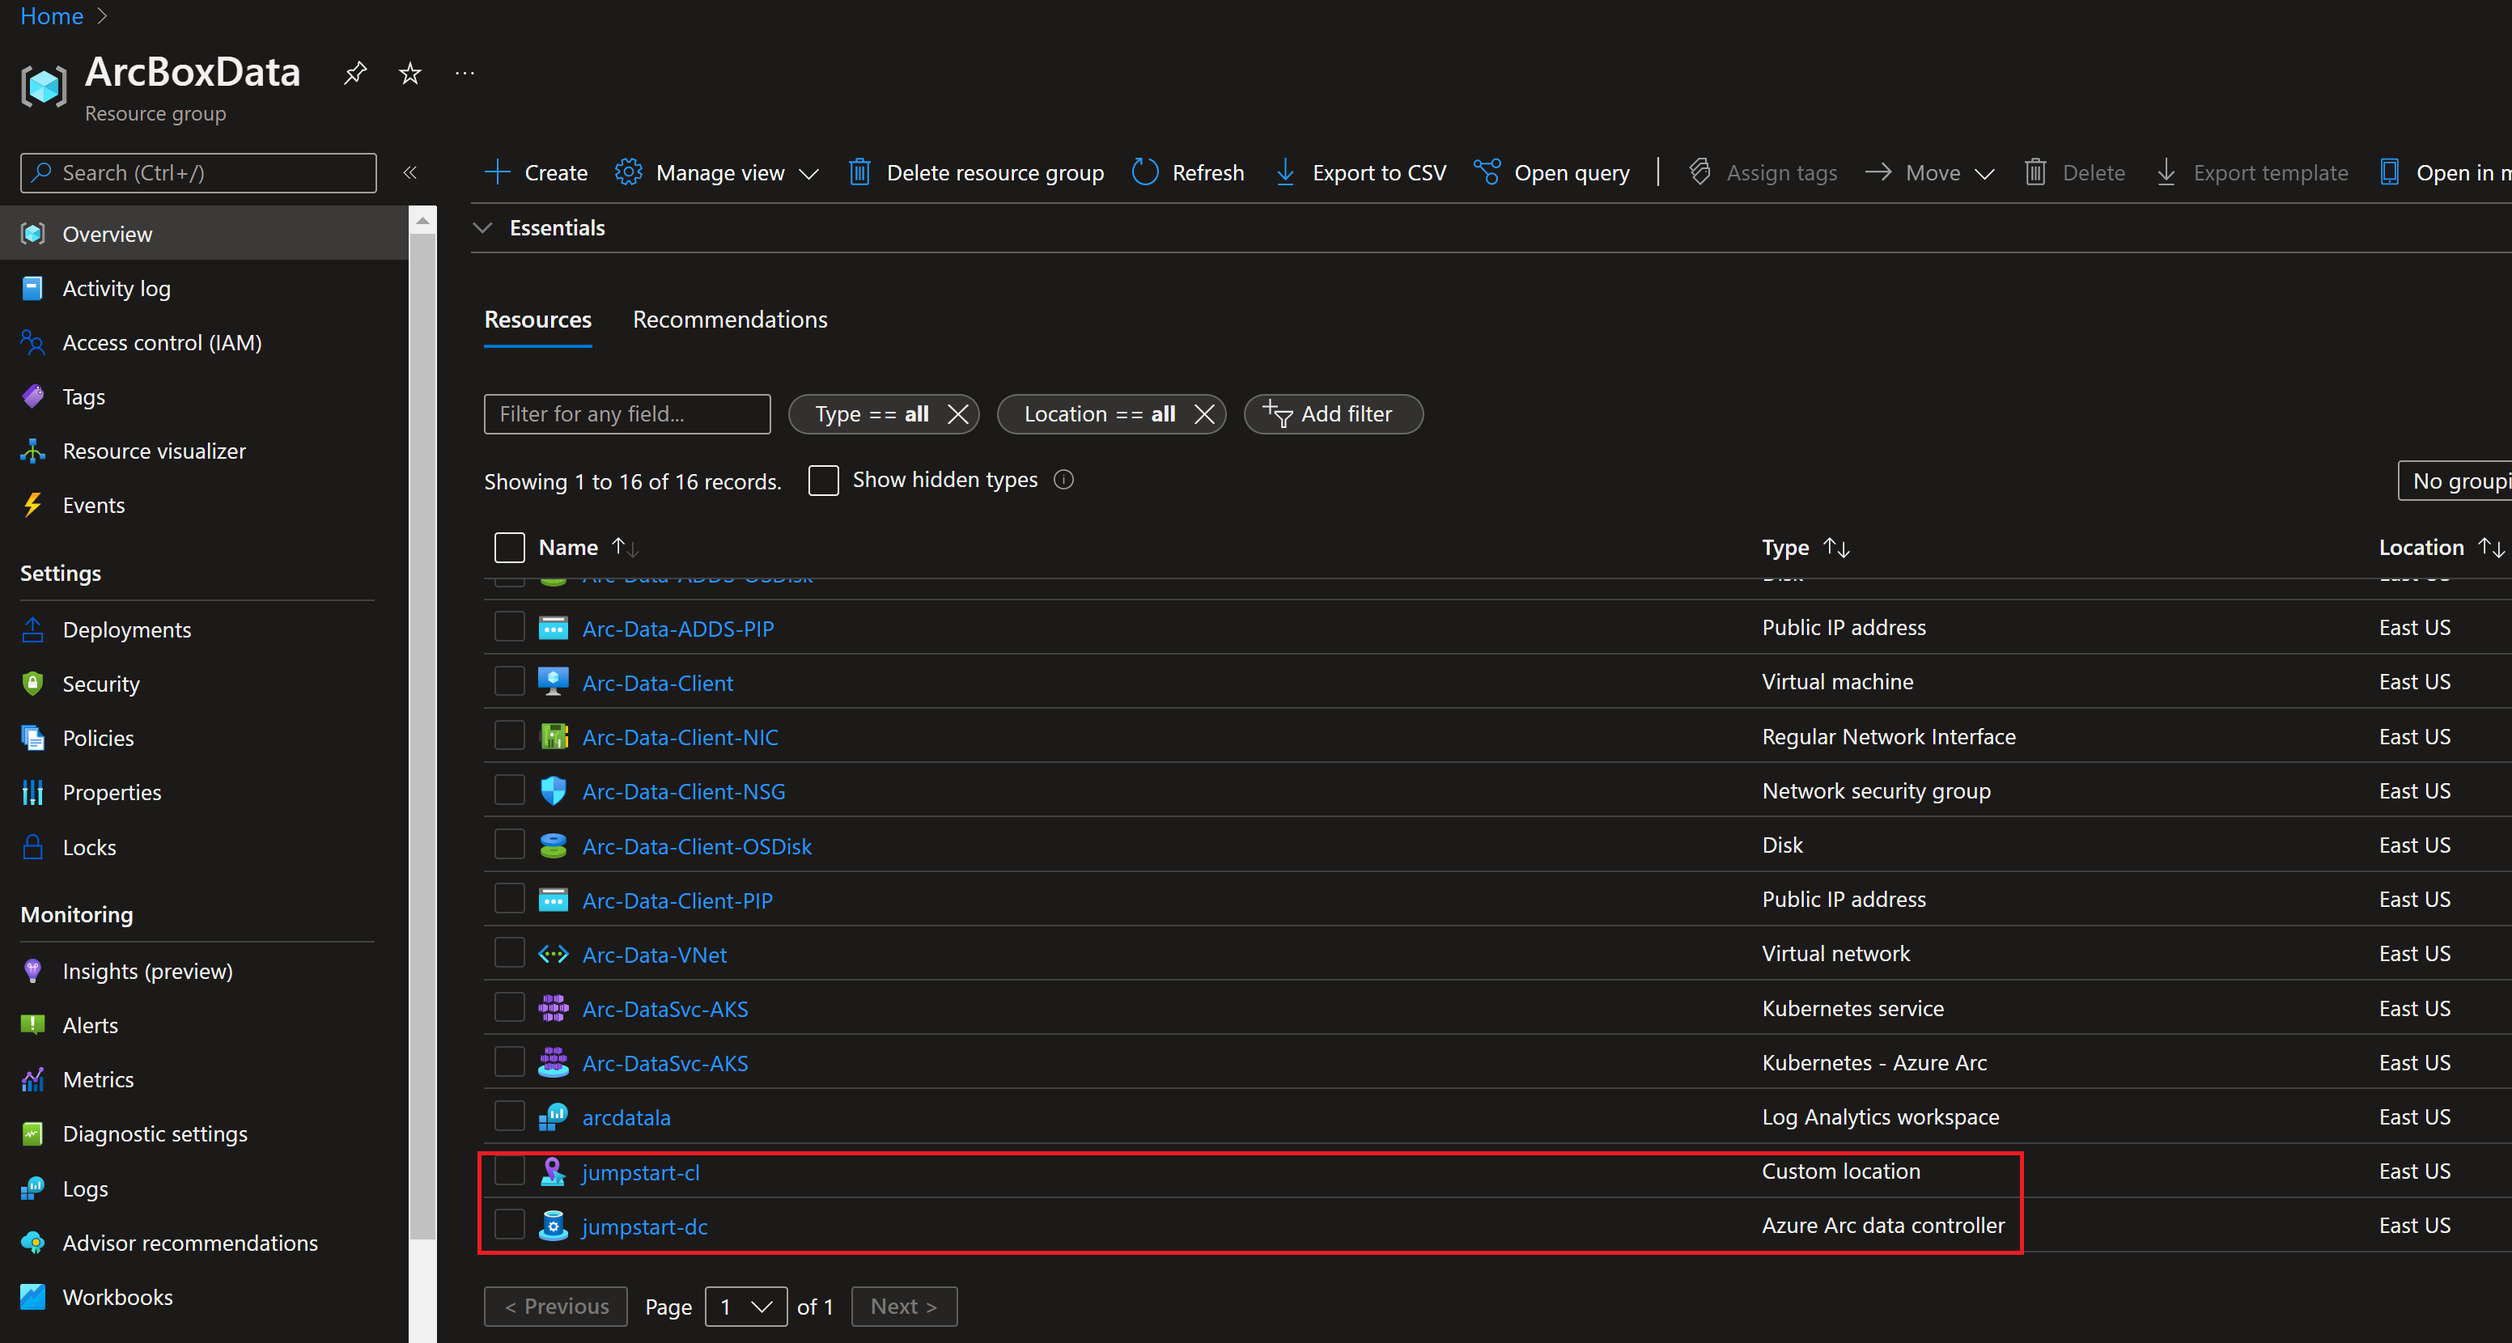
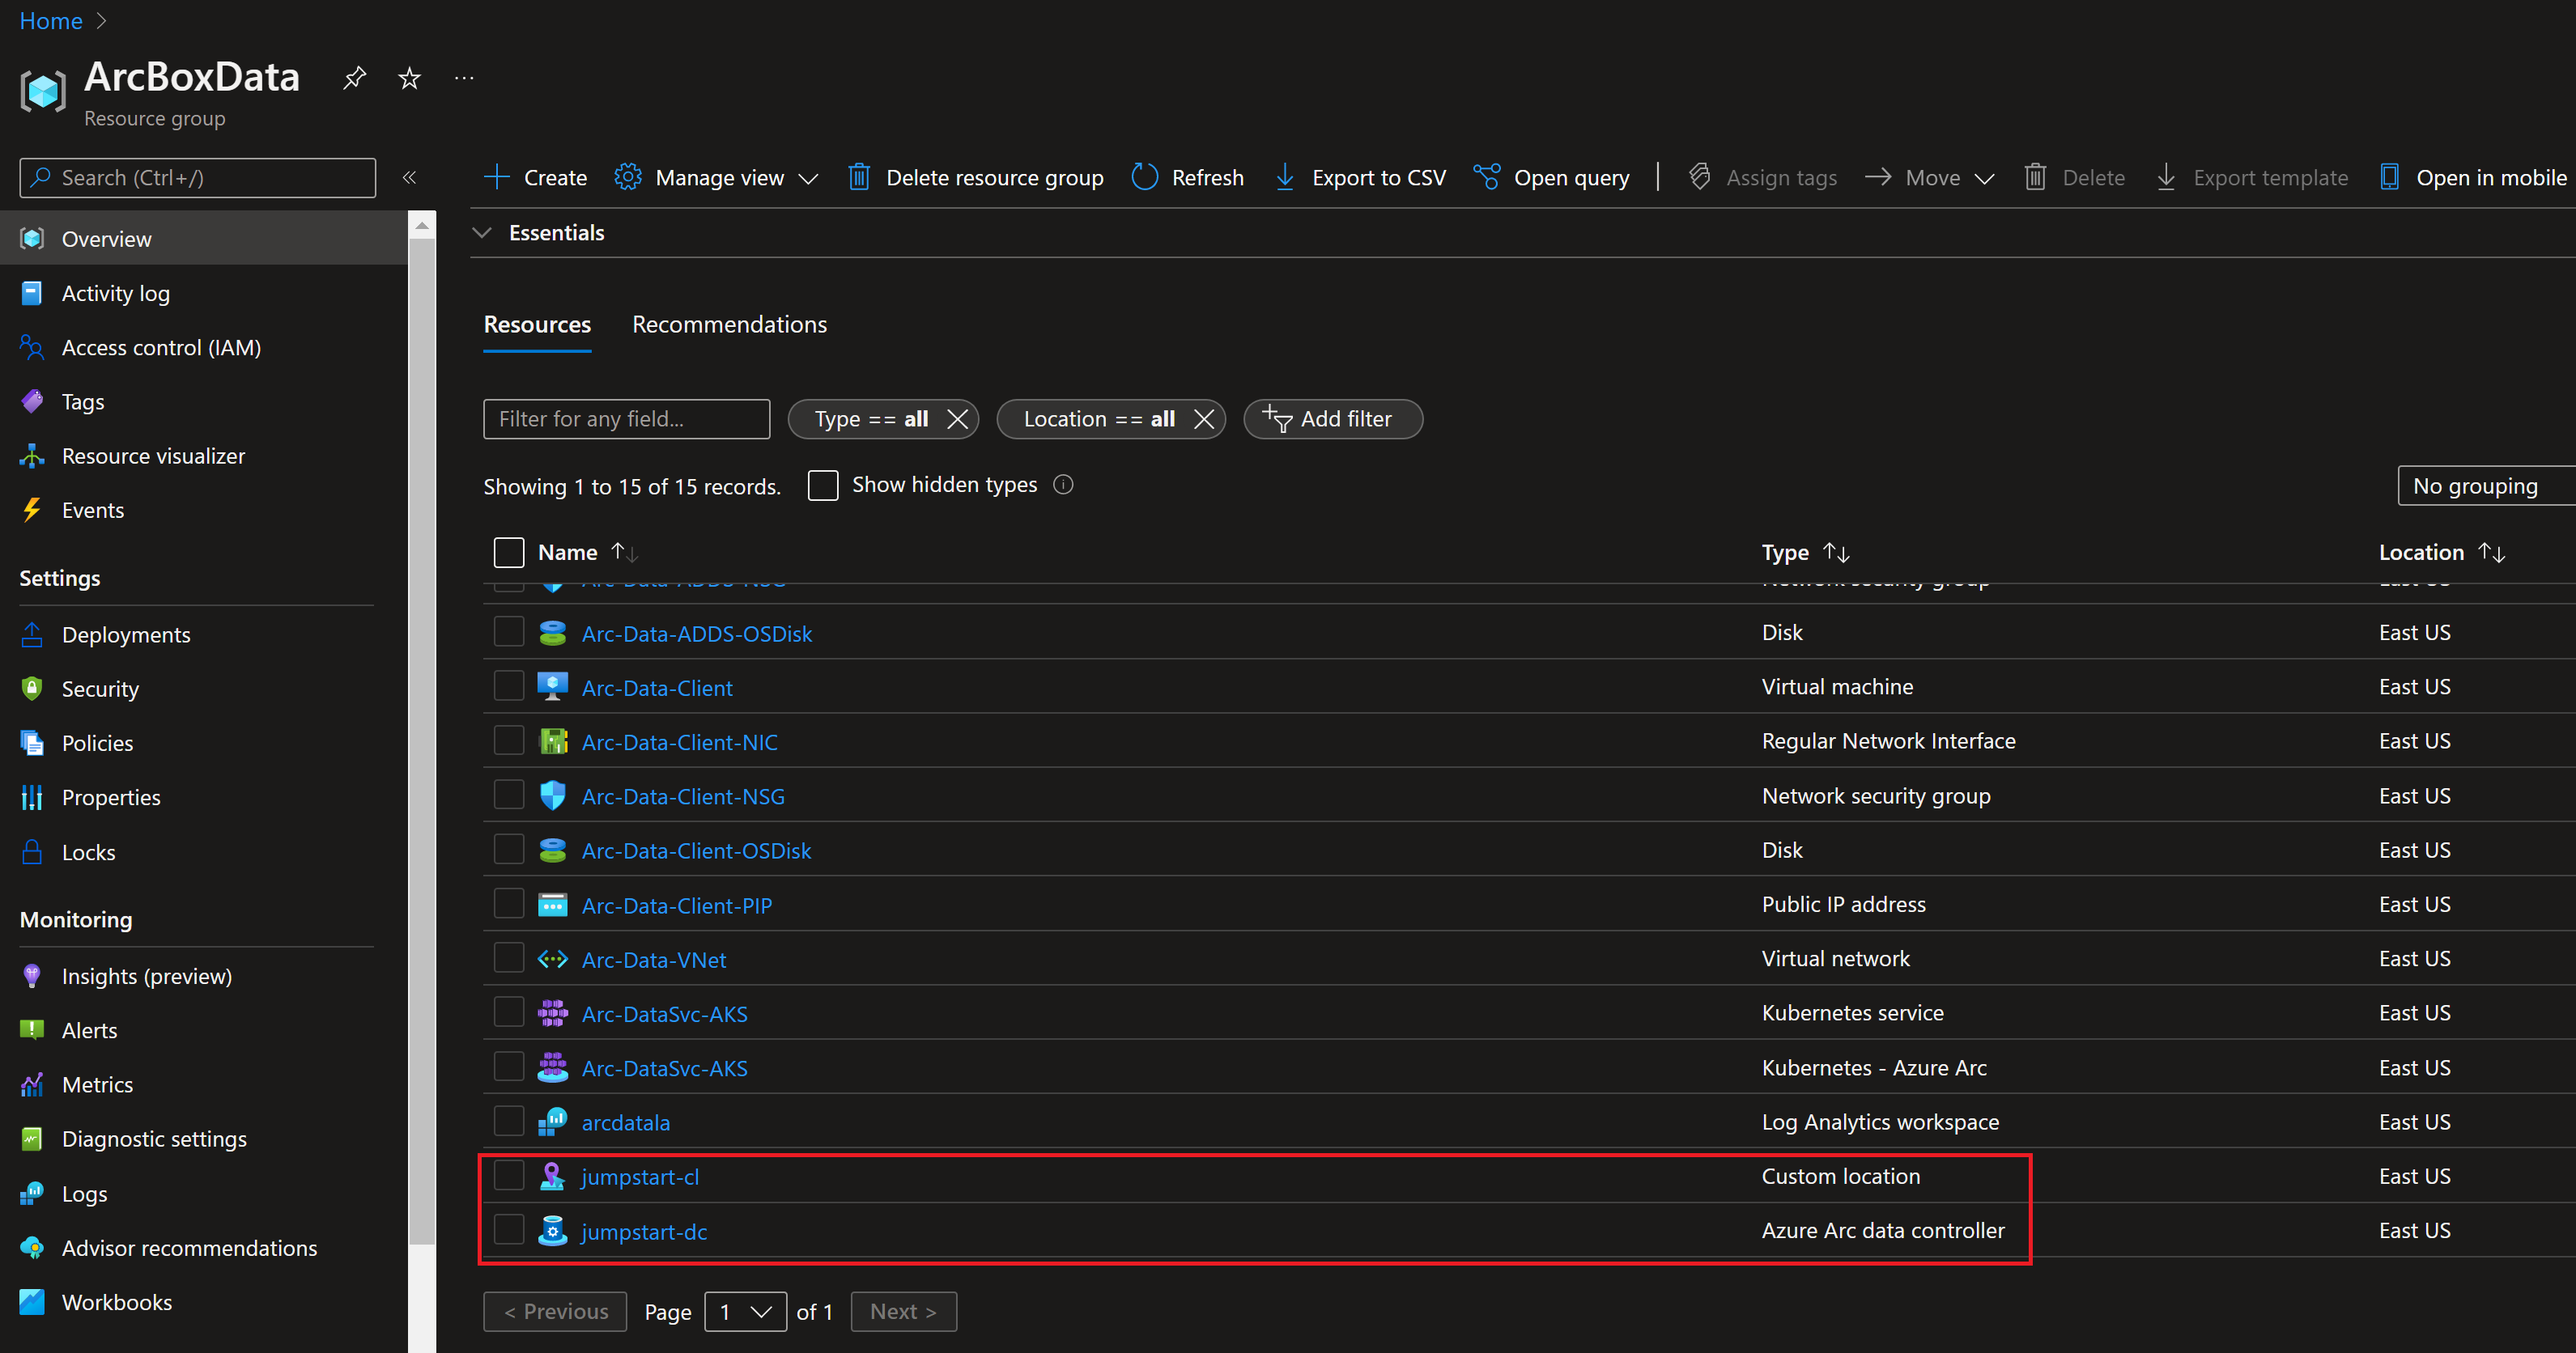
Updated as per PR review feedback

diff --git a/docs/azure_arc_jumpstart/azure_arc_data/aks/aks_mssql_mi_ad_auth_arm_template/_index.md b/docs/azure_arc_jumpstart/azure_arc_data/aks/aks_mssql_mi_ad_auth_arm_template/_index.md
@@ -6,11 +6,11 @@ weight: 2
 description: >
 ---
 
-## Deploy Azure SQL Managed Instance with AD authentication support in directly connected mode on AKS using an ARM Template
+## Deploy Azure SQL Managed Instance with AD authentication support using Customer-managed keytab in directly connected mode on AKS using an ARM Template
 
 The following Jumpstart scenario will guide you on how to deploy a "Ready to Go" environment so you can start using [Azure Arc-enabled data services](https://docs.microsoft.com/azure/azure-arc/data/overview) and [SQL Managed Instance](https://docs.microsoft.com/azure/azure-arc/data/managed-instance-overview) with [Active Directory Authentication](https://docs.microsoft.com/en-us/azure/azure-arc/data/active-directory-introduction) support to access control SQL Managed Instance. This scenario is deployed on [Azure Kubernetes Service (AKS)](https://docs.microsoft.com/azure/aks/intro-kubernetes) cluster using [Azure ARM Template](https://docs.microsoft.com/azure/azure-resource-manager/templates/overview). This scenarios uses [Customer-managed keytab (CMK)](https://docs.microsoft.com/en-us/azure/azure-arc/data/deploy-customer-managed-keytab-active-directory-connector) to support [Active Directory authentication in Arc-enabled SQL Managed Instance](https://docs.microsoft.com/en-us/azure/azure-arc/data/deploy-active-directory-sql-managed-instance?tabs=customer-managed-keytab-mode).
 
-By the end of this guide, you will have an AKS cluster deployed with an Azure Arc Data Controller, SQL Managed Instance, Microsoft Windows Server 2022 (Datacenter) Azure VM with Active Directory Domain Services and DNS server installed, and a Microsoft Windows Server 2022 (Datacenter) Azure client VM, installed & pre-configured with all the required tools needed to work with Azure Arc-enabled data services:
+By the end of this scenario, you will have an AKS cluster deployed with an Azure Arc Data Controller, SQL Managed Instance, Microsoft Windows Server 2022 (Datacenter) Azure VM with Active Directory Domain Services and DNS server installed, and a Microsoft Windows Server 2022 (Datacenter) Azure client VM, installed & pre-configured with all the required tools needed to work with Azure Arc-enabled data services:
 
 ![Screenshot showing the deployed architecture](./deployment-architecture.png)
 
@@ -22,7 +22,7 @@ By the end of this guide, you will have an AKS cluster deployed with an Azure Ar
     git clone https://github.com/microsoft/azure_arc.git
     ```
 
-- [Install or update Azure CLI to version 2.25.0 and above](https://docs.microsoft.com/cli/azure/install-azure-cli?view=azure-cli-latest). Use the below command to check your current installed version.
+- [Install or update Azure CLI to version 2.36.0 and above](https://docs.microsoft.com/cli/azure/install-azure-cli?view=azure-cli-latest). Use the below command to check your current installed version.
 
   ```shell
   az --version
@@ -84,11 +84,11 @@ For you to get familiar with the automation and deployment flow, below is an exp
 
   - [_VNET_](https://github.com/microsoft/azure_arc/blob/main/azure_arc_data_jumpstart/aks/ARM/VNET.json) - Deploys a Virtual Network with two subnets, one to be used by the Client virtual machine and Active Directory Domain Services VM, and the other to be used by AKS cluster. Assigns DNS servers in the VNet when Active Directory authentication support is enabled in SQL Managed Instance.
   - [_aks_](https://github.com/microsoft/azure_arc/blob/main/azure_arc_data_jumpstart/aks/ARM/aks.json) - Deploys the AKS cluster where all the Azure Arc data services will be deployed.
-  - [_addsVm_](https://github.com/microsoft/azure_arc/blob/main/azure_arc_data_jumpstart/aks/ARM/addsVm.json) - Deploys the Active Directory Domain Services Windows VM. This is where all user accounts are created to access SQL Managed Instance using Active Directory  authentication, service account to assign Service Principal and generate keytab file, and DNS entries for domain controller and SQL Managed Instance name resolution for connectivity.
+  - [_addsVm_](https://github.com/microsoft/azure_arc/blob/main/azure_arc_data_jumpstart/aks/ARM/addsVm.json) - Deploys the Active Directory Domain Services Windows VM. This is where all user accounts are created to access SQL Managed Instance using Active Directory  authentication, service account to assign service principal and generate keytab file, and DNS entries for domain controller and SQL Managed Instance name resolution for connectivity.
   - [_clientVm_](https://github.com/microsoft/azure_arc/blob/main/azure_arc_data_jumpstart/aks/ARM/clientVm.json) - Deploys the client Windows VM. This is where all user interactions with the environment are made from.
   - [_logAnalytics_](https://github.com/microsoft/azure_arc/blob/main/azure_arc_data_jumpstart/aks/ARM/logAnalytics.json) - Deploys Azure Log Analytics workspace to support Azure Arc-enabled data services logs uploads.
 
-  - User remotes into Active Directory domain joined client Windows VM using Active Directory account, which automatically kicks off the [_DataServicesLogonScript_](https://github.com/microsoft/azure_arc/blob/main/azure_arc_data_jumpstart/aks/ARM/artifacts/DataServicesLogonScript.ps1) PowerShell script that deploy and configure Azure Arc-enabled data services on the AKS cluster including the reverse DNS setup, PTR record for domain controller, data controller, SQLMI organization unit (OU), domain user account and keytab file, Active Directory Connector(ADC), and SQL Managed Instance.
+  - User remotes into the Active Directory domain joined client Windows VM using Active Directory account, which automatically kicks off the [_DataServicesLogonScript_](https://github.com/microsoft/azure_arc/blob/main/azure_arc_data_jumpstart/aks/ARM/artifacts/DataServicesLogonScript.ps1) PowerShell script that deploy and configure Azure Arc-enabled data services on the AKS cluster including the reverse DNS setup, PTR record for domain controller, data controller, SQLMI organization unit (OU), domain user account and keytab file, Active Directory Connector(ADC), and SQL Managed Instance.
 
   - In addition to deploying the data controller and SQL Managed Instance, the sample [_AdventureWorks_](https://docs.microsoft.com/sql/samples/adventureworks-install-configure?view=sql-server-ver15&tabs=ssms) database is restored, windows account is created in SQL Managed Instance, and sysadmin role is automatically assigned for you as well to connect to database server using Windows Integrated authentication using SQL Server Management Studio(SSMS) or Azure Data Studio.
 
@@ -139,9 +139,9 @@ As mentioned, this deployment will leverage ARM templates. You will deploy a sin
     --parameters azuredeploy.parameters.json
     ```
 
-    > **NOTE: The deployment time for this scenario can take ~15-20min**
+    > **NOTE: The deployment time for this scenario can take ~20-25min**
 
-- Once Azure resources have been provisioned, you will be able to see them in the Azure portal. At this point, the resource group should have **13 various Azure resources** deployed (If you chose to deploy Azure Bastion, you will have **14 Azure resources**).
+- Once Azure resources have been provisioned, you will be able to see them in the Azure portal. At this point, the resource group should have **12 various Azure resources** deployed (If you chose to deploy Azure Bastion, you will have **13 Azure resources**).
 
     ![Screenshot showing ARM template deployment completed](./01.png)
 
@@ -153,11 +153,13 @@ As mentioned, this deployment will leverage ARM templates. You will deploy a sin
 
     ![Screenshot showing the Client VM public IP](./03.png)
 
-- If you have chosen to deploy Azure Bastion in the ARM template, use it to connect to the VM.
+- If you have chosen to deploy Azure Bastion in the ARM template, use it to connect to the VM. Please make sure to use User Principal Name of the domain user i.e. **arcdemo@jupstart.local** to login to Client VM through Bastion. Login will fail if using **jumpstart\arcdemo** format. 
 
     ![Screenshot showing connecting using Azure Bastion](./04.png)
 
-- At first login, use **jumpstart\arcdemo** Active Directory user account to login. This user account is the domain administrator and has full privileges to setup AD authentication in SQL Managed Instance. As mentioned in the "Automation Flow" section above, the [_DataServicesLogonScript_](https://github.com/microsoft/azure_arc/blob/main/azure_arc_data_jumpstart/aks/ARM/artifacts/DataServicesLogonScript.ps1) PowerShell logon script will start it's run.
+- At first login to Client VM using Remote Desktop Connection, use **jumpstart\arcdemo** Active Directory user account to login. This user account is the domain administrator and has full privileges to setup AD authentication in SQL Managed Instance. As mentioned in the "Automation Flow" section above, the [_DataServicesLogonScript_](https://github.com/microsoft/azure_arc/blob/main/azure_arc_data_jumpstart/aks/ARM/artifacts/DataServicesLogonScript.ps1) PowerShell logon script will start it's run.
+
+> **NOTE: Using just arcdemo to login Client VM will not start automation script at first login, as this scenario relies on domain credentials to support AD authentication to connect SQL Managed Instance.**
 
   ![Screenshot showing the PowerShell logon script run](./05.png)
 
@@ -187,7 +189,7 @@ As mentioned, this deployment will leverage ARM templates. You will deploy a sin
 
   ![Screenshot showing the PowerShell logon script run](./17.png)
 
-    ![Screenshot showing the post-run desktop](./18.png)
+  ![Screenshot showing the post-run desktop](./18.png)
 
 - Since this scenario is deploying the Azure Arc Data Controller and SQL Managed Instance, you will also notice additional newly deployed Azure resources in the resources group (at this point you should have **16 various Azure resources deployed**. The important ones to notice are:
 
